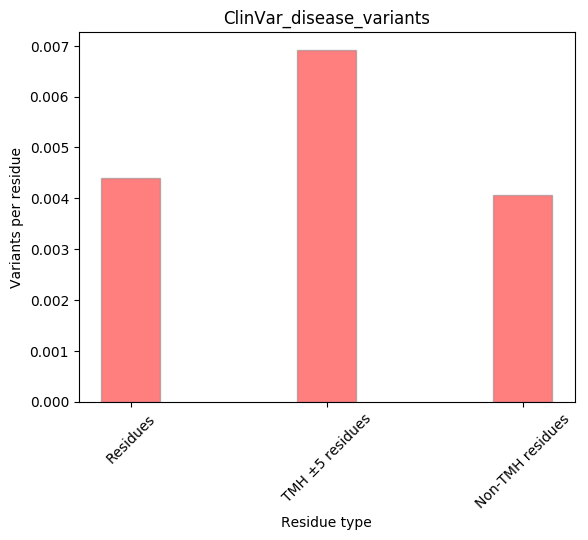
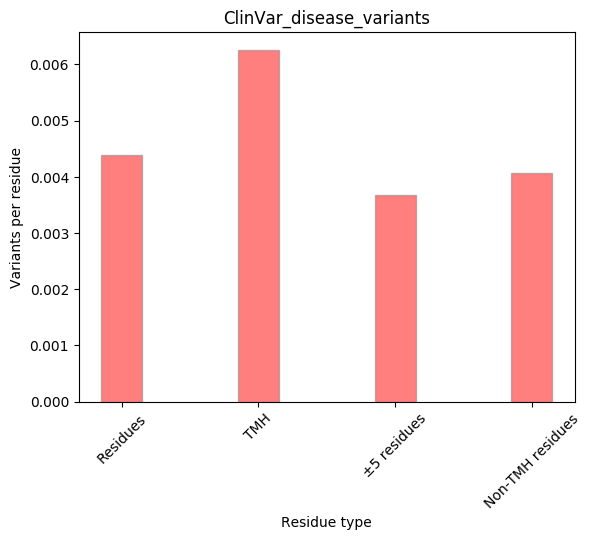
tweaks to queries and summary files. Fixed requirements for security patch in Django 2.2

diff --git a/scripts/summary.py b/scripts/summary.py
@@ -68,7 +68,6 @@ def heatmap_run():
     title = "TMH±5_disease_normalised_wt_aa_tmh_freq"
     heatmap(normalise_tmh_resid_array(var_freqs_list, aa_list_baezo_order), title, aa_list_baezo_order, "d", None)
 
-
     title = "non_TMH±5_disease"
     var_freq=list(Variant.objects.filter(residue__tmh_residue=None).filter(disease_status='d').values_list("aa_wt", "aa_mut"))
     heatmap(heatmap_array(var_freq, aa_list_baezo_order), title, aa_list_baezo_order, "d", None)
@@ -214,32 +213,32 @@ def heatmap_run():
     heatmap(np.array(residue_normalised_count_matrix), f"Residue normalised according to ClinVar div gnomAd in non_TMH residue population in {color_dict_list[source]} state", aa_list_baezo_order, color_dict_list[source], None)
 
 
-    #Normalise ClinVar acording to gnomAD and get a p-value
-    residue_normalised_count_matrix = []
-    for var_aa_num, aa_var in enumerate(aa_list_baezo_order):
-        residue_normalised_list = []
-        for wt_aa_num, aa_wt in enumerate(aa_list_baezo_order):
+    ##Normalise ClinVar acording to gnomAD and get a p-value
+    #residue_normalised_count_matrix = []
+    #for var_aa_num, aa_var in enumerate(aa_list_baezo_order):
+    #    residue_normalised_list = []
+    #    for wt_aa_num, aa_wt in enumerate(aa_list_baezo_order):
 
-            #print(dataset[var_aa_num][wt_aa_num], tmh_residue_count_dict[aa_wt])
-            normalised_gnomad_value=gnomad_tmh_var_array[var_aa_num][wt_aa_num]
+    #        #print(dataset[var_aa_num][wt_aa_num], tmh_residue_count_dict[aa_wt])
+    #        normalised_gnomad_value=gnomad_tmh_var_array[var_aa_num][wt_aa_num]
 
-            if var_aa_num==wt_aa_num:
-                residue_normalised_value = 1 #fake test data
+    #        if var_aa_num==wt_aa_num:
+    #            residue_normalised_value = 1 #fake test data
 
-            elif normalised_gnomad_value == 0:
-                residue_normalised_value = 1
+    #        elif normalised_gnomad_value == 0:
+    #            residue_normalised_value = 1
 
-            else:
-                stats_oddsratio, stats_pvalue = stats.binom_test(clinvar_tmh_disease_var_array[var_aa_num][wt_aa_num], n=gnomad_tmh_var_array[var_aa_num][wt_aa_num], p=sum(sum(np.array(clinvar_tmh_disease_var_array)))/sum(sum(np.array(gnomad_tmh_var_array))), alternative='two-sided')
-                residue_normalised_value = fisher_pvalue
-            print(residue_normalised_value)
+    #        else:
+    #            stats_oddsratio, stats_pvalue = stats.binom_test(clinvar_tmh_disease_var_array[var_aa_num][wt_aa_num], n=gnomad_tmh_var_array[var_aa_num][wt_aa_num], p=sum(sum(np.array(clinvar_tmh_disease_var_array)))/sum(sum(np.array(gnomad_tmh_var_array))), alternative='two-sided')
+    #            residue_normalised_value = stats_pvalue
+    #        print(residue_normalised_value)
 
-            residue_normalised_list.append(residue_normalised_value)
+    #        residue_normalised_list.append(residue_normalised_value)
 
-        residue_normalised_count_matrix.append(residue_normalised_list)
+    #    residue_normalised_count_matrix.append(residue_normalised_list)
 
-    source="ClinVar"
-    heatmap(np.array(residue_normalised_count_matrix), f"Residue normalised according to ClinVar gnomAdchi sqaure in TMH residue population in {color_dict_list[source]} state", aa_list_baezo_order, color_dict_list[source], LogNorm())
+    #source="ClinVar"
+    #heatmap(np.array(residue_normalised_count_matrix), f"Residue normalised according to ClinVar gnomAdchi sqaure in TMH residue population in {color_dict_list[source]} state", aa_list_baezo_order, color_dict_list[source], LogNorm())
 
 
 def basic_num():
@@ -252,6 +251,8 @@ def basic_num():
     print("Residues,", residue_num)
     tmh_residue_num = Residue.objects.filter(tmh_residue__feature_location="TMH").count()
     print("TMH residues,", tmh_residue_num)
+    flank_residue_num = Residue.objects.exclude(tmh_residue=None, tmh_residue__feature_location="TMH").count()
+    print("flank residues,", flank_residue_num)
 
     non_tmh_residue_num = Residue.objects.filter(tmh_residue=None).count()
     print("Non-TMH residues,", non_tmh_residue_num)
@@ -259,7 +260,7 @@ def basic_num():
     print("Residues with a map to at least one residue in a structure,", structural_residue_num)
     non_structural_residue_num = Residue.objects.filter(structural_residue=None).count()
     print("Residues with no map to a residue in a structure,",non_structural_residue_num)
-    tmh_structural_residue_num = Residue.objects.exclude(tmh_residue=None).exclude(structural_residue=None).count()
+    tmh_structural_residue_num = Residue.objects.exclude(tmh_residue=None, structural_residue=None).count()
     print("TMH residues with a map to at least one residue in a structure,",tmh_structural_residue_num)
     tmh_non_structural_residue_num = Residue.objects.exclude(tmh_residue=None).filter(structural_residue=None).count()
     print("TMH residues with no map to a residue in a structure,",tmh_non_structural_residue_num)
@@ -278,34 +279,40 @@ def basic_num():
     # Complex query example. How many variants are in the TMH?
     g_variants_num = Variant.objects.filter(variant_source='gnomAD').count()
     print("gnomAD variants,", g_variants_num)
-    tmh_g_variants_num = Variant.objects.exclude(residue__tmh_residue=None).filter(variant_source='gnomAD').count()
+    tmh_g_variants_num = Variant.objects.filter(residue__tmh_residue__feature_location = "TMH", variant_source='gnomAD').count()
     print("TMH gnomAD variants,", tmh_g_variants_num)
-    non_tmh_g_variants_num = Variant.objects.filter(residue__tmh_residue=None).filter(variant_source='gnomAD').count()
+    flank_g_variants_num = Variant.objects.exclude(residue__tmh_residue=None, residue__tmh_residue__feature_location = "TMH").filter(variant_source='gnomAD').count()
+    print("Flank gnomAD variants,", flank_g_variants_num)
+    non_tmh_g_variants_num = Variant.objects.filter(residue__tmh_residue=None, variant_source='gnomAD').count()
     print("Non-TMH gnomAD variants,", non_tmh_g_variants_num)
 
     d_variants_num = Variant.objects.filter(disease_status='d').count()
     print("Disease variants,", d_variants_num)
-    tmh_d_variants_num = Variant.objects.exclude(residue__tmh_residue=None).filter(disease_status='d').count()
+    tmh_d_variants_num = Variant.objects.filter(residue__tmh_residue__feature_location = "TMH", disease_status='d').count()
     print("TMH disease variants,", tmh_d_variants_num)
+    flank_d_variants_num = Variant.objects.exclude(residue__tmh_residue=None, residue__tmh_residue__feature_location = "TMH").filter(disease_status='d').count()
+    print("Flank disease variants,", flank_d_variants_num)
     d_variants_clinvar_num = Variant.objects.filter(disease_status='d', variant_source="ClinVar").count()
     print("ClinVar disease variants,", d_variants_clinvar_num)
-    tmh_d_variants_clinvar_num = Variant.objects.exclude(residue__tmh_residue=None).filter(
-        disease_status='d', variant_source="ClinVar").count()
+    tmh_d_variants_clinvar_num = Variant.objects.filter(residue__tmh_residue__feature_location = "TMH", disease_status='d', variant_source="ClinVar").count()
     print("TMH ClinVar disease variants,", tmh_d_variants_clinvar_num)
+    flank_d_variants_clinvar_num = Variant.objects.exclude(residue__tmh_residue=None, residue__tmh_residue__feature_location = "TMH").filter(disease_status='d', variant_source="ClinVar").count()
+    print("Flank ClinVar disease variants,", flank_d_variants_num)
 
-    tmh_d_variants_humsavar_num = Variant.objects.exclude(residue__tmh_residue=None).filter(
-        disease_status='d', variant_source="Humsavar").count()
+    flank_d_variants_clinvar_num = Variant.objects.exclude(residue__tmh_residue=None, residue__tmh_residue__feature_location = "TMH").filter(disease_status='d', variant_source="Humsavar").count()
+    print("Flank Humsavar disease variants,", flank_d_variants_num)
+
+    tmh_d_variants_humsavar_num = Variant.objects.exclude(residue__tmh_residue=None).filter(disease_status='d', variant_source="Humsavar").count()
 
     d_variants_humsavar_num = Variant.objects.filter(disease_status='d', variant_source="Humsavar").count()
     print("Humsavar disease variants,", d_variants_humsavar_num)
     print("TMH Humsavar disease variants,", tmh_d_variants_humsavar_num)
     non_tmh_d_variants_num = Variant.objects.filter(residue__tmh_residue=None).filter(disease_status='d').count()
     print("Non-TMH disease variants,", non_tmh_d_variants_num)
-    non_tmh_d_variants_clinvar_num = Variant.objects.filter(residue__tmh_residue=None).filter(disease_status='d', variant_source="ClinVar").count()
+    non_tmh_d_variants_clinvar_num = Variant.objects.filter(residue__tmh_residue=None, disease_status='d', variant_source="ClinVar").count()
     print("Non-TMH ClinVar disease variants,", non_tmh_d_variants_clinvar_num)
-    non_tmh_d_variants_humsavar_num = Variant.objects.filter(residue__tmh_residue=None).filter(disease_status='d', variant_source="Humsavar").count()
-    print("Non-TMH Humsavar disease variants,",
-          non_tmh_d_variants_humsavar_num)
+    non_tmh_d_variants_humsavar_num = Variant.objects.filter(residue__tmh_residue=None, disease_status='d', variant_source="Humsavar").count()
+    print("Non-TMH Humsavar disease variants,", non_tmh_d_variants_humsavar_num)
 
 
 
@@ -344,10 +351,8 @@ def basic_num():
 
     print("\n\nVariant enrichment\n")
     print("Disease variants per residue,", d_variants_num / residue_num)
-    print("Disease variants per TMH residue,",
-          tmh_d_variants_num / tmh_residue_num)
-    print("Disease variants per non-TMH residue,",
-          non_tmh_d_variants_num / non_tmh_residue_num)
+    print("Disease variants per TMH residue,", tmh_d_variants_num / tmh_residue_num)
+    print("Disease variants per non-TMH residue,", non_tmh_d_variants_num / non_tmh_residue_num)
 
     fisher_oddsratio, fisher_pvalue = stats.fisher_exact([[tmh_d_variants_num, non_tmh_d_variants_num], [tmh_g_variants_num, non_tmh_g_variants_num]], alternative='two-sided')
 
@@ -359,24 +364,20 @@ def basic_num():
 
     print("Chi 2 test Disease TMH non-TMH versus gnomAD TMH non-TMH,", chi_test)
 
-    objects = ("Residues", "TMH ±5 residues", "Non-TMH residues")
-    performance = [d_variants_num / residue_num, tmh_d_variants_num /
-                   tmh_residue_num, non_tmh_d_variants_num / non_tmh_residue_num]
+    objects = ("Residues", "TMH",  "±5 residues", "Non-TMH residues")
+    performance = [d_variants_num/residue_num, tmh_d_variants_num/tmh_residue_num, flank_d_variants_num/flank_residue_num, non_tmh_d_variants_num / non_tmh_residue_num]
     barchart(objects, performance, "TMP_disease_variants", "d", "Residue type", "Variants per residue")
 
-    objects = ("Residues", "TMH ±5 residues", "Non-TMH residues")
-    performance = [d_variants_clinvar_num / residue_num, tmh_d_variants_clinvar_num /
-                   tmh_residue_num, non_tmh_d_variants_clinvar_num / non_tmh_residue_num]
+    objects = ("Residues", "TMH",  "±5 residues", "Non-TMH residues")
+    performance = [d_variants_clinvar_num/residue_num, tmh_d_variants_clinvar_num/tmh_residue_num, flank_d_variants_clinvar_num/flank_residue_num, non_tmh_d_variants_clinvar_num / non_tmh_residue_num]
     barchart(objects, performance, "ClinVar_disease_variants", "d", "Residue type", "Variants per residue")
 
-    objects = ("Residues", "TMH ±5 residues", "Non-TMH residues")
-    performance = [d_variants_humsavar_num / residue_num, tmh_d_variants_humsavar_num /
-                   tmh_residue_num, non_tmh_d_variants_humsavar_num / non_tmh_residue_num]
-    barchart(objects, performance, "Humsavar_disease_variants", "d", "Residue type", "Variants per residue")
+    #objects = ("Residues", "TMH",  "±5 residues", "Non-TMH residues")
+    #performance = [d_variants_humsavar_num / residue_num, tmh_d_variants_humsavar_num/tmh_residue_num, non_tmh_d_variants_humsavar_num / non_tmh_residue_num]
+    #barchart(objects, performance, "Humsavar_disease_variants", "d", "Residue type", "Variants per residue")
 
-    objects = ("Residues", "TMH ±5 residues", "Non-TMH residues")
-    performance = [g_variants_num / residue_num, tmh_g_variants_num /
-                   tmh_residue_num, non_tmh_g_variants_num / non_tmh_residue_num]
+    objects = ("Residues", "TMH",  "±5 residues", "Non-TMH residues")
+    performance = [g_variants_num/residue_num, tmh_g_variants_num/tmh_residue_num, flank_g_variants_num/flank_residue_num, non_tmh_g_variants_num/non_tmh_residue_num]
     barchart(objects, performance, "TMP_gnomAD_variants", "n", "Residue type", "Variants per residue")
 
 

diff --git a/scripts/query.py b/scripts/query.py
@@ -23,7 +23,6 @@ def protein_query(args):
 
 def raw_variant_query(*args):
     f = [i.strip('\n').split(',') for i in open(*args)]
-    print("ID\tPosition")
     tmh_count = 0
     tmh_flank_count = 0
     non_tmh_count = 0
@@ -42,7 +41,6 @@ def raw_variant_query(*args):
 
         uniprot_ids = clean_query(paired_data[0])
         positions = clean_query(paired_data[1])
-        print(uniprot_ids, positions)
 
         total_residues = Residue.objects.filter(protein__uniprot_id=uniprot_ids).count()
         non_tmh_residues = Residue.objects.filter(protein__uniprot_id=uniprot_ids, tmh_residue=None).count()
@@ -51,8 +49,10 @@ def raw_variant_query(*args):
 
         if uniprot_ids in list_of_ids:
             pass
+
         elif uniprot_ids not in list_of_ids:
             total_flank = total_flank + flank_residues
+            tmh_residue_type="non-TMH"
             total_tmh = total_tmh + tmh_residues
             total_non_tmh= total_non_tmh + non_tmh_residues
             list_of_ids.append(uniprot_ids)
@@ -61,44 +61,53 @@ def raw_variant_query(*args):
 
 
         is_it_in_a_tmh = Residue.objects.filter(protein__uniprot_id=uniprot_ids, sequence_position=positions, tmh_residue__evidence="UniProt")
-        print(is_it_in_a_tmh.values())
-        if is_it_in_a_tmh.count() == 0:
-            tmh_residue=False
-            non_tmh_count=non_tmh_count+1
-            non_tmh_count_normalised_per_protein=non_tmh_count_normalised_per_protein+1/(non_tmh_residues/total_residues)
-            print()
+        try:
+            if is_it_in_a_tmh.count() == 0:
+                tmh_residue=False
+                non_tmh_count=non_tmh_count+1
+                non_tmh_count_normalised_per_protein=non_tmh_count_normalised_per_protein+1/(non_tmh_residues/total_residues)
 
-        elif is_it_in_a_tmh.count() == 1:
 
-            is_it_in_a_tmh_flank = Residue.objects.filter(protein__uniprot_id=uniprot_ids, sequence_position=positions, tmh_residue__evidence="UniProt", tmh_residue__feature_location="TMH")
-            if is_it_in_a_tmh_flank.count() == 1:
-                tmh_residue=True
-                tmh_count=tmh_count+1
-                tmh_normalised_per_protein = tmh_normalised_per_protein+1/(tmh_residues/total_residues)
+            elif is_it_in_a_tmh.count() == 1:
+                is_it_in_a_tmh_core = Residue.objects.filter(protein__uniprot_id=uniprot_ids, sequence_position=positions, tmh_residue__evidence="UniProt", tmh_residue__feature_location="TMH")
+                if is_it_in_a_tmh_core.count() == 1:
+                    tmh_residue=True
+                    tmh_residue_type="TMH"
+                    tmh_count=tmh_count+1
+                    tmh_normalised_per_protein = tmh_normalised_per_protein+1/(tmh_residues/total_residues)
 
-            is_it_in_a_tmh_flank = Residue.objects.filter(protein__uniprot_id=uniprot_ids, sequence_position=positions, tmh_residue__evidence="UniProt").exclude(tmh_residue__feature_location="TMH")
-            if is_it_in_a_tmh_flank.count() == 1:
-                tmh_residue=True
-                tmh_flank_count=tmh_flank_count+1
-                tmh_flank_count_normalised_per_protein=tmh_flank_count_normalised_per_protein+1/(flank_residues/total_residues)
+                is_it_in_a_tmh_flank = Residue.objects.filter(protein__uniprot_id=uniprot_ids, sequence_position=positions, tmh_residue__evidence="UniProt").exclude(tmh_residue__feature_location="TMH")
+                if is_it_in_a_tmh_flank.count() == 1:
+                    tmh_residue=True
+                    tmh_residue_type="Flank"
+                    tmh_flank_count=tmh_flank_count+1
+                    tmh_flank_count_normalised_per_protein=tmh_flank_count_normalised_per_protein+1/(flank_residues/total_residues)
 
-        print(uniprot_ids,"\t",positions, tmh_residue)
+        except(ZeroDivisionError):
+            pass
+
+        print(uniprot_ids,"\t",positions, "\t", tmh_residue_type)
+
+
     objects = ["TMH", "±5 flanking residues", "Not in TMH nor ±5 residues"]
     performance = [tmh_count, tmh_flank_count, non_tmh_count]
     source="Cys loop receptor disease variants"
     state = "d"
+    print(source, "\n" ,objects, "\n", performance)
     barchart(objects, performance, source, state, "Variant location", "Variant count")
 
     objects = ["TMH", "±5 flanking residues", "Not in TMH nor ±5 residues"]
     performance = [tmh_normalised_per_protein, tmh_flank_count_normalised_per_protein, non_tmh_count_normalised_per_protein]
     source="Cys loop receptor disease variants normalised 1 div per protein tm to non-tm ratio"
     state = "d"
+    print(source, "\n" ,objects, "\n", performance)
     barchart(objects, performance, source, state, "Variant location", "Variant count")
 
     objects = ["TMH", "±5 flanking residues", "Not in TMH nor ±5 residues"]
     performance = [tmh_count/total_tmh, tmh_flank_count/total_flank, non_tmh_count/total_non_tmh]
     source="Cys loop receptor disease variants normalised at global tm to non-tm ratio"
     state = "d"
+    print(source, "\n" ,objects, "\n", performance)
     barchart(objects, performance, source, state, "Variant location", "Variant count")
 
 

diff --git a/scripts/populate_homology.py b/scripts/populate_homology.py
@@ -131,7 +131,7 @@ def phmmer(a_query):
     phmmer_result = check_output(["/usr/local/bin/phmmer", "-E 0.0000000001", "--noali", f"scripts/external_datasets/fasta_bin/{a_query}.fasta", "scripts/external_datasets/fasta_bin/all/all_fasta.fasta"])  # stdout=subprocess.PIPE)
     overall_results=[]
     below_threshold = True
-    while below_threshold = True:
+    while below_threshold == True:
         for n, i in enumerate(phmmer_result):
             result_line=[]
             if str("inclusion threshold") in str(result_line):
